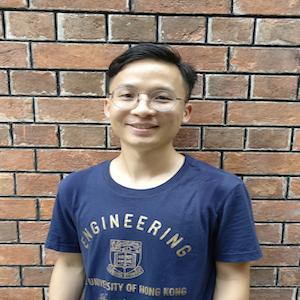
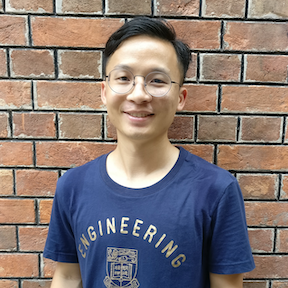
Resize the images for better visual

diff --git a/protected/views/site/team.php b/protected/views/site/team.php
@@ -59,7 +59,7 @@
                             </td>
                             <td>
                                 <div class="thumbnail">
-                                    <img src="../images/team/qi.jpg">
+                                    <img src="../images/team/qi.png">
                                     <div class="caption">
                                         <h3>Qi Chen<br><small>Senior secretary</small></h3>
                                         <p></p>
@@ -68,7 +68,7 @@
                             </td>
                             <td>
                                 <div class="thumbnail">
-                                    <img src="../images/team/hans.jpg">
+                                    <img src="../images/team/hans.png">
                                     <div class="caption">
                                         <h3>Hans Zauner<br><small>Assistant Editor</small></h3>
                                         <p>Hans is Assistant Editor at GigaScience and also writes for Laborjournal. Many years ago, Hans did research in evolutionary and developmental biology. He clipped fish fins and handled a laser beam to shoot at reproductive organs of worms. Now in safe distance from any lab bench, he works on various science communication projects.</p>
@@ -115,7 +115,7 @@
                             </td>
                             <td>
                                 <div class="thumbnail">
-                                    <img src="../images/team/hongfang.jpg">
+                                    <img src="../images/team/hongfang.png">
                                     <div class="caption">
                                         <h3>HongFang Zhang<br><small>Junior Editor</small></h3>
                                         <p>Junior editor for GigaScience and GigaByte journals.</p>
